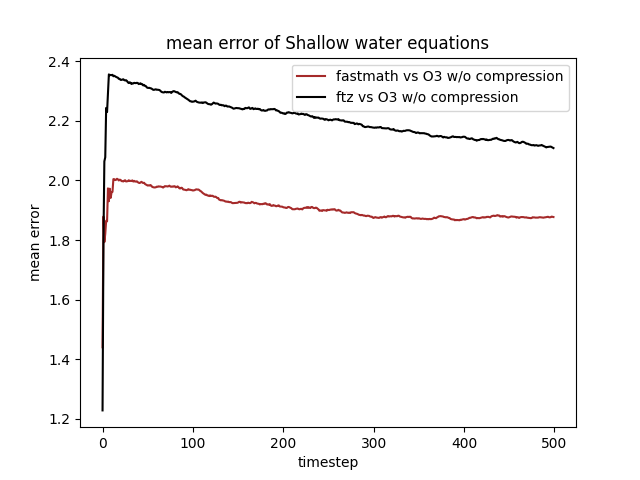
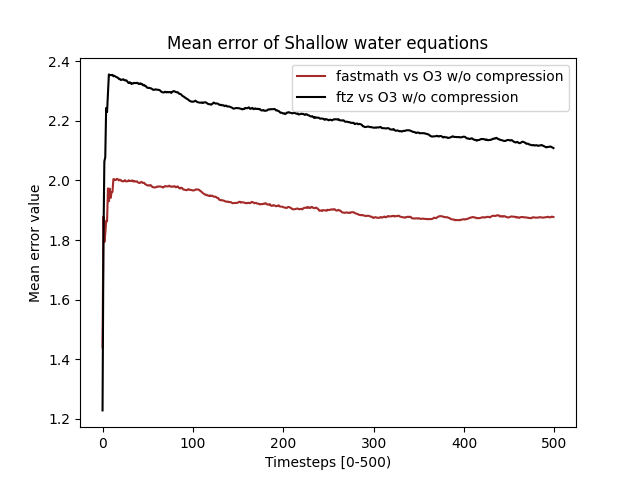
some plots

Changed region(s): [[0.25, 0.0625, 0.7812, 0.125], [0.4062, 0.9375, 0.625, 1.0], [0.0312, 0.375, 0.0625, 0.625]]

diff --git a/experiments/shallowwater.py b/experiments/shallowwater.py
@@ -96,14 +96,14 @@ for timestep in range(500):
 
     timesteps.append(timestep)
 
-    absolute_error_fastmathvsO3.append(subtraction_fastmathvsO3.max())
-    absolute_error_ftzvsO3.append(subtraction_ftzvsO3.max())
+    absolute_error_fastmathvsO3.append(torch.mean(subtraction_fastmathvsO3))
+    absolute_error_ftzvsO3.append(torch.mean(subtraction_ftzvsO3))
 
     decompressed_subtraction_fastmathvsO3 = abs(compressor.decompress(compressed_b - compressed_a))
     decompressed_subtraction_ftzvsO3 = abs(compressor.decompress(compressed_c - compressed_a))
 
-    absolute_error_fastmathvsO3_compressed.append(decompressed_subtraction_fastmathvsO3.max())
-    absolute_error_ftzvsO3_compressed.append(decompressed_subtraction_ftzvsO3.max())
+    absolute_error_fastmathvsO3_compressed.append(torch.mean(decompressed_subtraction_fastmathvsO3))
+    absolute_error_ftzvsO3_compressed.append(torch.mean(decompressed_subtraction_ftzvsO3))
 
 
 plt.plot(
@@ -124,9 +124,9 @@ plt.plot(
     np.asarray(timesteps), np.asarray(absolute_error_ftzvsO3_compressed), label="ftz vs O3 compressed", color="green"
 )
 
-plt.title("max error of Shallow water equations")
-plt.xlabel("timestep")
-plt.ylabel("max error")
+plt.title("Mean error of Shallow water equations")
+plt.xlabel("Timesteps [0-20)")
+plt.ylabel("Mean error value")
 plt.legend()
-plt.savefig("max_error_graph_absolute_error.png")
+plt.savefig("mean_error_graph_absolute_error.png")
 plt.close()
